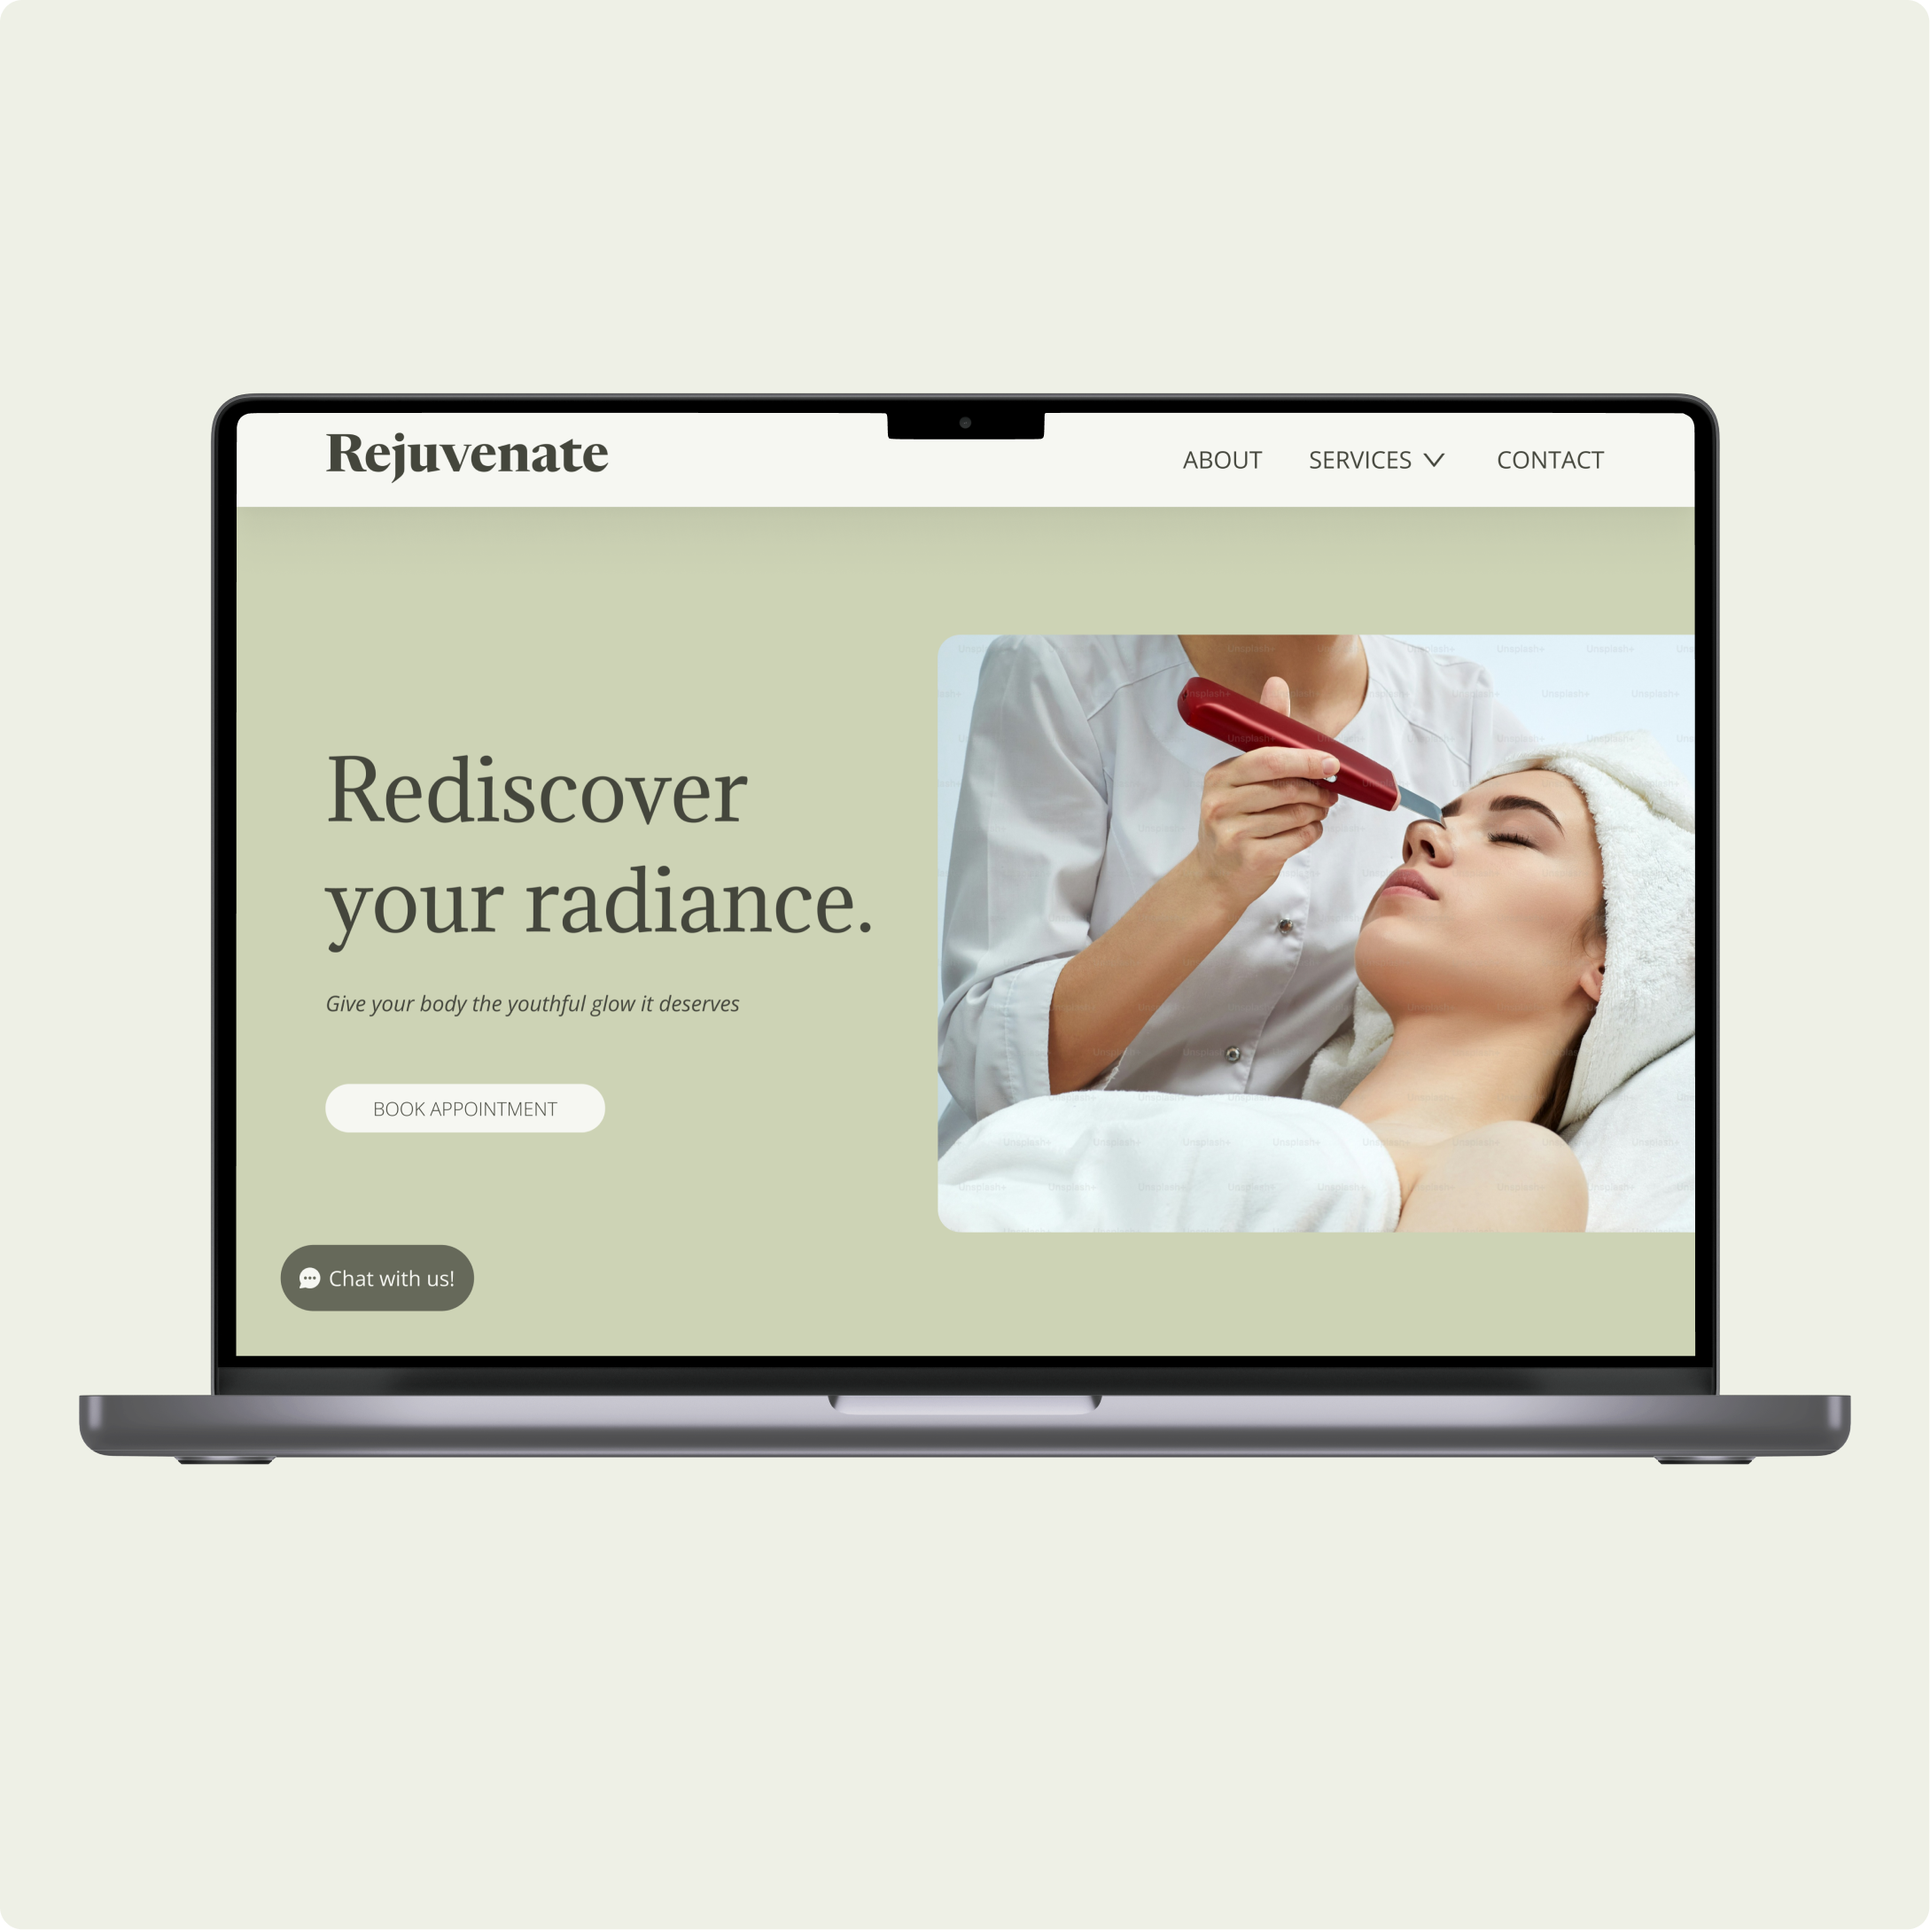
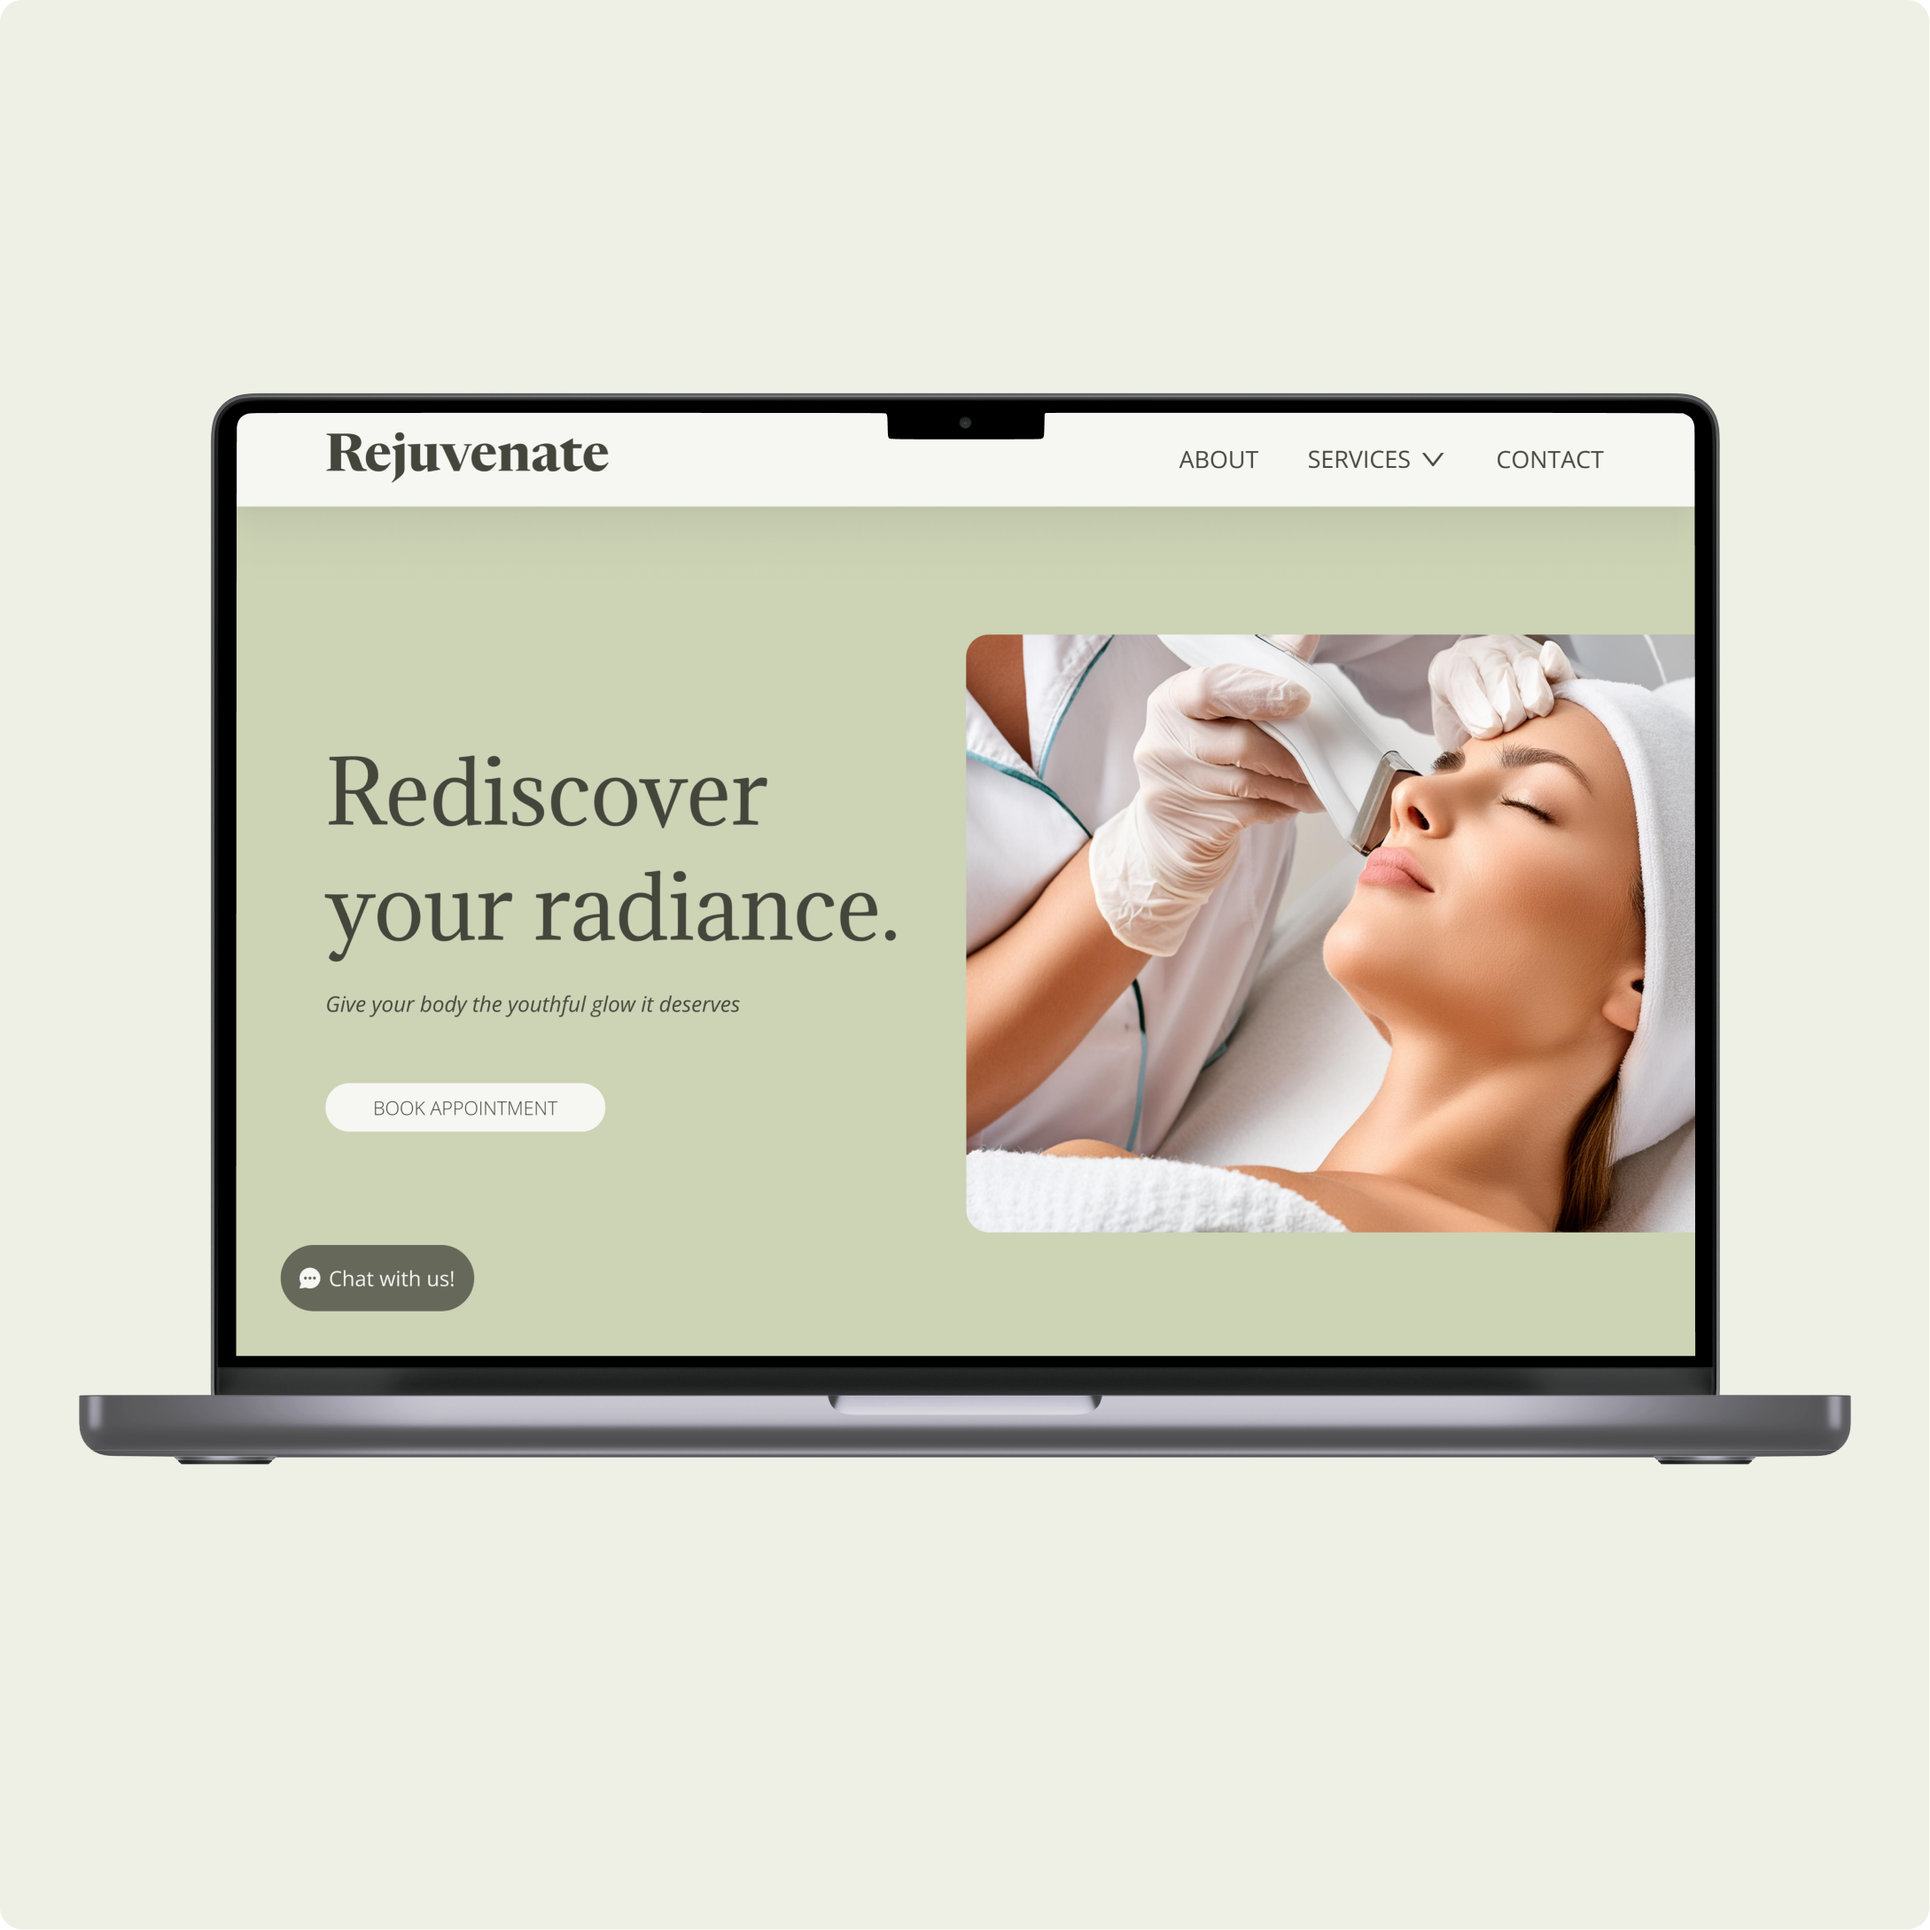
rejuvenate design sprint

Changed region(s): [[0.1561, 0.3122, 0.9054, 0.6556], [0.6869, 0.2185, 0.7181, 0.2498], [0.6244, 0.2185, 0.6556, 0.2498]]

diff --git a/design-sprint/index.html b/design-sprint/index.html
@@ -21,9 +21,9 @@
         <div class="navbar" id="navbar">
             <a href=".." class="home-item">Jocelyn Chen</a>
             <div class="navbar-right" id="navbar-right">
-                <a href=".." class="nav-item">Projects</a>
+                <a href=".." class="nav-item active">Projects</a>
                 <a href="/about/" class="nav-item">About</a>
-                <a href="/playground/" class="nav-item active">Playground</a>
+                <a href="/playground/" class="nav-item">Playground</a>
             </div>
             <button class="burger-menu" id="burger-menu">
                 <ion-icon class="bars" name="menu-outline"></ion-icon>
@@ -33,7 +33,7 @@
         <section class="section-regular">
             <div class="div-margin">
                 <h1>Design Sprints</h1> 
-                <p>A collection of design challenges focusing on UI design, visual design, and more. </p>    
+                <p>A collection of experimental projects and design challenges focusing on UI design, visual design, and more. </p>    
             </div>
             <!-- Rejuvenate -->
             <div class="div-margin">
@@ -44,30 +44,43 @@
                     <p>
                         A mockup of a beauty clinic's website and marketing materials aiming to empower clients to embrace their natural beauty and boost their confidence through personalized, high-quality beauty and skincare treatments.     
                     </p>
+                    <p>
+                        Explore website prototype <a href="https://www.figma.com/proto/g3uwb11sWMFNz04AGMObEf/rejuvenate?page-id=0%3A1&node-id=1-8&viewport=783%2C494%2C0.14&t=QI9UPxF0jU3Q4Tpw-1&scaling=scale-down&starting-point-node-id=1%3A8" class="link underline" target="_blank">here</a>!
+                    </p>
                 </div>
                 <div class="image-container flex-column img-margin">
                     <img
-                        src="../assets/images/design-sprint/rejuvenate-website-landing-page.png"
-                        alt="Rejuvenate Landing Page"
+                        src="../assets/images/design-sprint/rejuvenate-website-demo.gif"
+                        alt="Rejuvenate Website Demo"
                         loading="lazy"
-                        class="sprint-image"/>
-                    <p class="image-caption">Rejuvenate Website Landing Page</p>
+                        class="sprint-image-medium"/>
+                    <p class="image-caption">Rejuvenate Website Demo</p>
+                </div>
+                <div class="two-image-container">
+                    <div class="image-container flex-column img-margin">
+                        <img
+                            src="../assets/images/design-sprint/rejuvenate-outdoor-mockup.png"
+                            alt="Rejuvenate Outdoor Marketing Campaign"
+                            loading="lazy"
+                            class="auto-height"/>
+                        <p class="image-caption">Rejuvenate Outdoor Marketing Campaign</p>
+                    </div> 
+                    <div class="image-container flex-column img-margin">
+                        <img
+                            src="../assets/images/design-sprint/rejuvenate-website-landing-page.png"
+                            alt="Rejuvenate Landing Page"
+                            loading="lazy"
+                            class="auto-height"/>
+                        <p class="image-caption">Rejuvenate Website Landing Page</p>
+                    </div>
                 </div>
                 <div class="image-container flex-column img-margin">
                     <img
-                        src="../assets/images/design-sprint/rejuvenate-website-split.png"
-                        alt="Rejuvenate Website"
+                        src="../assets/images/design-sprint/rejuvenate-website-pages.png"
+                        alt="Rejuvenate Website Pages"
                         loading="lazy"
                         class="sprint-image"/>
-                    <p class="image-caption">Rejuvenate Website</p>
-                </div>
-                <div class="image-container flex-column img-margin">
-                    <img
-                        src="../assets/images/design-sprint/rejuvenate-outdoor-mockup.png"
-                        alt="Rejuvenate Outdoor Marketing"
-                        loading="lazy"
-                        class="sprint-image"/>
-                    <p class="image-caption">Rejuvenate Outdoor Marketing Campaign</p>
+                    <p class="image-caption">Rejuvenate Website Pages</p>
                 </div>
             </div>
         </section>
@@ -99,7 +112,7 @@
 
         <!-- Website scripts -->
         <script src="../assets/js/app.js"></script>
-        <script type="module" src="../assets/js/Node.js"></script>
+        <!-- <script type="module" src="../assets/js/Node.js"></script> -->
 
         <!-- Ion icons scripts -->
         <script

diff --git a/uw-cerse-stem-equity-resource-hub/index.html b/uw-cerse-stem-equity-resource-hub/index.html
@@ -337,10 +337,21 @@
                             </p>
                         </div>
                     </div>
-                    <div class="interview-quote">
-                        <p>
-                            <span class="quotation">"</span> It would be nice to have a central location to know who is the advisor for each department, who I should reach out to for each RSO, and then having a way to contact the person or group hosting something."
-                        </p>
+                    <div class="interview-quote container">
+                        <div class="image-container">
+                            <img
+                            src="../assets/images/uw-cerse/interview-no-centralization.png"
+                            alt="Challenge with resources - lack of centralization"
+                            loading="lazy"
+                            class="interview-image hoverable"
+                            />
+                            <p class="image-caption">Lack of centralization</p>
+                        </div>
+                        <div class="interview-image-overlay">
+                            <p>
+                                <span class="quotation">"</span> There's no central area to find all these different STEM programs... It would be nice to have a central location to know who is the advisor for each department, who I should reach out to for each RSO, and then having a way to contact the person or group hosting something."
+                            </p>
+                        </div>
                     </div>
                 </div>
             </div>
@@ -739,7 +750,7 @@
                     </div>
                     <div class="finding-recommendation-item img-margin">
                         <div class="finding-item box">
-                            <h3>Insight #06 : Motivation</h3>
+                            <h3>Insight #0 : Motivation</h3>
                             <p>
                                 Students look for resources that match their interests and majors. Additionally, staff emphasized the importance of highlighting students' diverse backgrounds, goals, and aspirations while seeking out STEM-related resources.
                             </p> 
@@ -762,7 +773,7 @@
                     </div>
                 </div>
                 <p>
-                    Using the brainstormed concept ideas, the resource hub website was sketched out first on paper, then wireframed in a low-fidelity prototype. For the full sketches and wireframes, see this <a href="../assets/file-uploads/uw-cerse-wireframes.pdf" target="_blank" class="link underline"><b>document</b></a>.
+                    Using the brainstormed concept ideas, the resource hub website was sketched out first on paper, then wireframed as a low-fidelity prototype. For the full sketches and wireframes, see this <a href="../assets/file-uploads/uw-cerse-wireframes.pdf" target="_blank" class="link underline"><b>document</b></a>.
                 </p>
                 <p> 
                     After our research and analysis, our team got in discussion with UW CERSE on project alignment. We decided that going 

diff --git a/assets/css/styles.css b/assets/css/styles.css
@@ -396,6 +396,19 @@ body {
   gap: 5rem;
 }
 
+.two-image-container {
+  display: flex; 
+  max-width: 100vw;
+  height: auto; 
+  justify-content: space-between;
+  align-items: flex-end;
+}
+
+.two-image-container .auto-height {
+  width: 40vw;
+  height: auto; 
+}
+
 .right-align-text { text-align: right; }
 
 .two-bento-box {
@@ -883,7 +896,9 @@ button.button:hover {
 }
 
 .project-image {
-  max-width: 100vw;
+  /* max-width: 100vw; */
+  height: 70vh; 
+  width: auto;
 }
 
 .project-context-container {
@@ -905,10 +920,6 @@ button.button:hover {
 h1.case-study-title {
   color: var(--secondary-color);
   margin-bottom: 0;
-}
-
-.project-image {
-  max-width: 100vw;
 }
 
 .project-overview-container {
@@ -954,6 +965,11 @@ p.image-caption {
 .sprint-image {
   height: 90vh;
   width: auto;
+}
+
+.sprint-image-medium {
+  height: 70vh;
+  width: auto; 
 }
 /* .website-image {
   height: 50vh;

diff --git a/assets/css/styles-uw-cerse.css b/assets/css/styles-uw-cerse.css
@@ -142,9 +142,16 @@ span.quotation {
   padding-left: 0; 
 }
 
-.interview-poc, .interview-codebook, .interview-themes { padding: 0; }
-.interview-poc, .interview-rabbit-hole, .quote-box { background-color : white; }
-.quote-box p { font-size: 0.9rem; }
+.interview-quote, .quote-box {
+  display: flex;
+  align-content: center;
+  flex-wrap: wrap;
+}
+
+
+.interview-poc, .interview-codebook, .interview-themes, .interview-quote { padding: 0; }
+.interview-poc, .interview-rabbit-hole, .quote-box, .interview-quote { background-color : white; }
+.quote-box p, .interview-quote p { font-size: 0.9rem; }
 
 /* div.column {  width: 50%;} */
 

diff --git a/assets/css/styles-husky-buddy.css b/assets/css/styles-husky-buddy.css
@@ -18,7 +18,7 @@
 } */
   
 .project-image-section {
-    padding: 5rem 0 3rem; 
+    padding: 5rem 0 0; 
     background-color: #F6F2FB;
     margin: 0; 
 }
